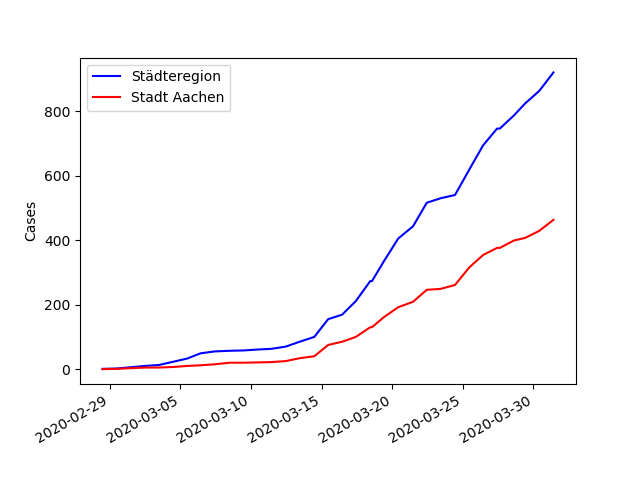
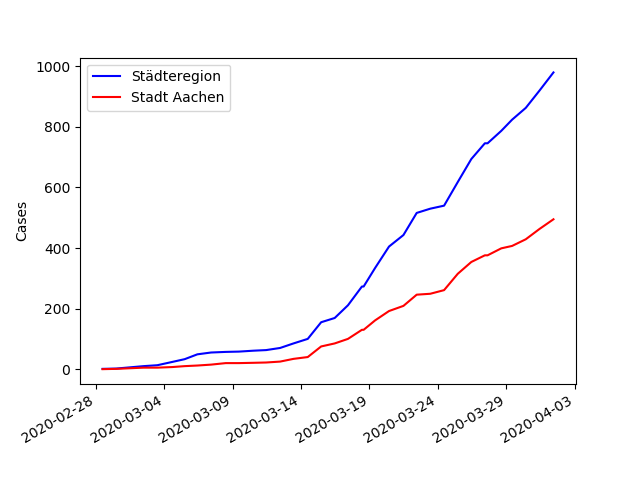
covid19 update

diff --git a/content/blog/Covid19/index.md b/content/blog/Covid19/index.md
@@ -1,13 +1,13 @@
 --- 
  title: Covid19 in Aachen (Stadt und Städteregion) 
- date: "2020-03-31T11:05:20.000Z" 
+ date: "2020-04-01T11:07:48.000Z" 
 --- 
 The city of Aachen publishes (more or less) daily updates about Covid19. It's in the form of a daily press release, so I decided to collect this data to make it more usable for further processing ([google spread sheet](https://docs.google.com/spreadsheets/d/1Th4GSgmTpX4GtcebVDzIfRuCOu2cSOc2WJCORHcCw-Y)).
 
 Below is the development of cases in the Städteregion Aachen and the city of Aachen: 
 ![Cases of Covid19](cases.png)And the current death toll: 
-![Deaths from Covid19](deaths.png)And the year of birth of the deceased. Their average (median) year of birth was 1939. Which corresponds to an average age of 81.
-![Year of Birth](year.png)And the gender distribution of the deceased. 80.0 % of victms were male.
+![Deaths from Covid19](deaths.png)And the year of birth of the deceased. Their average (median) year of birth was 1938. Which corresponds to an average age of 82.
+![Year of Birth](year.png)And the gender distribution of the deceased. 75.0 % of victms were male.
 ![Gender](gender.png)
 
 ## How this site is generated 
